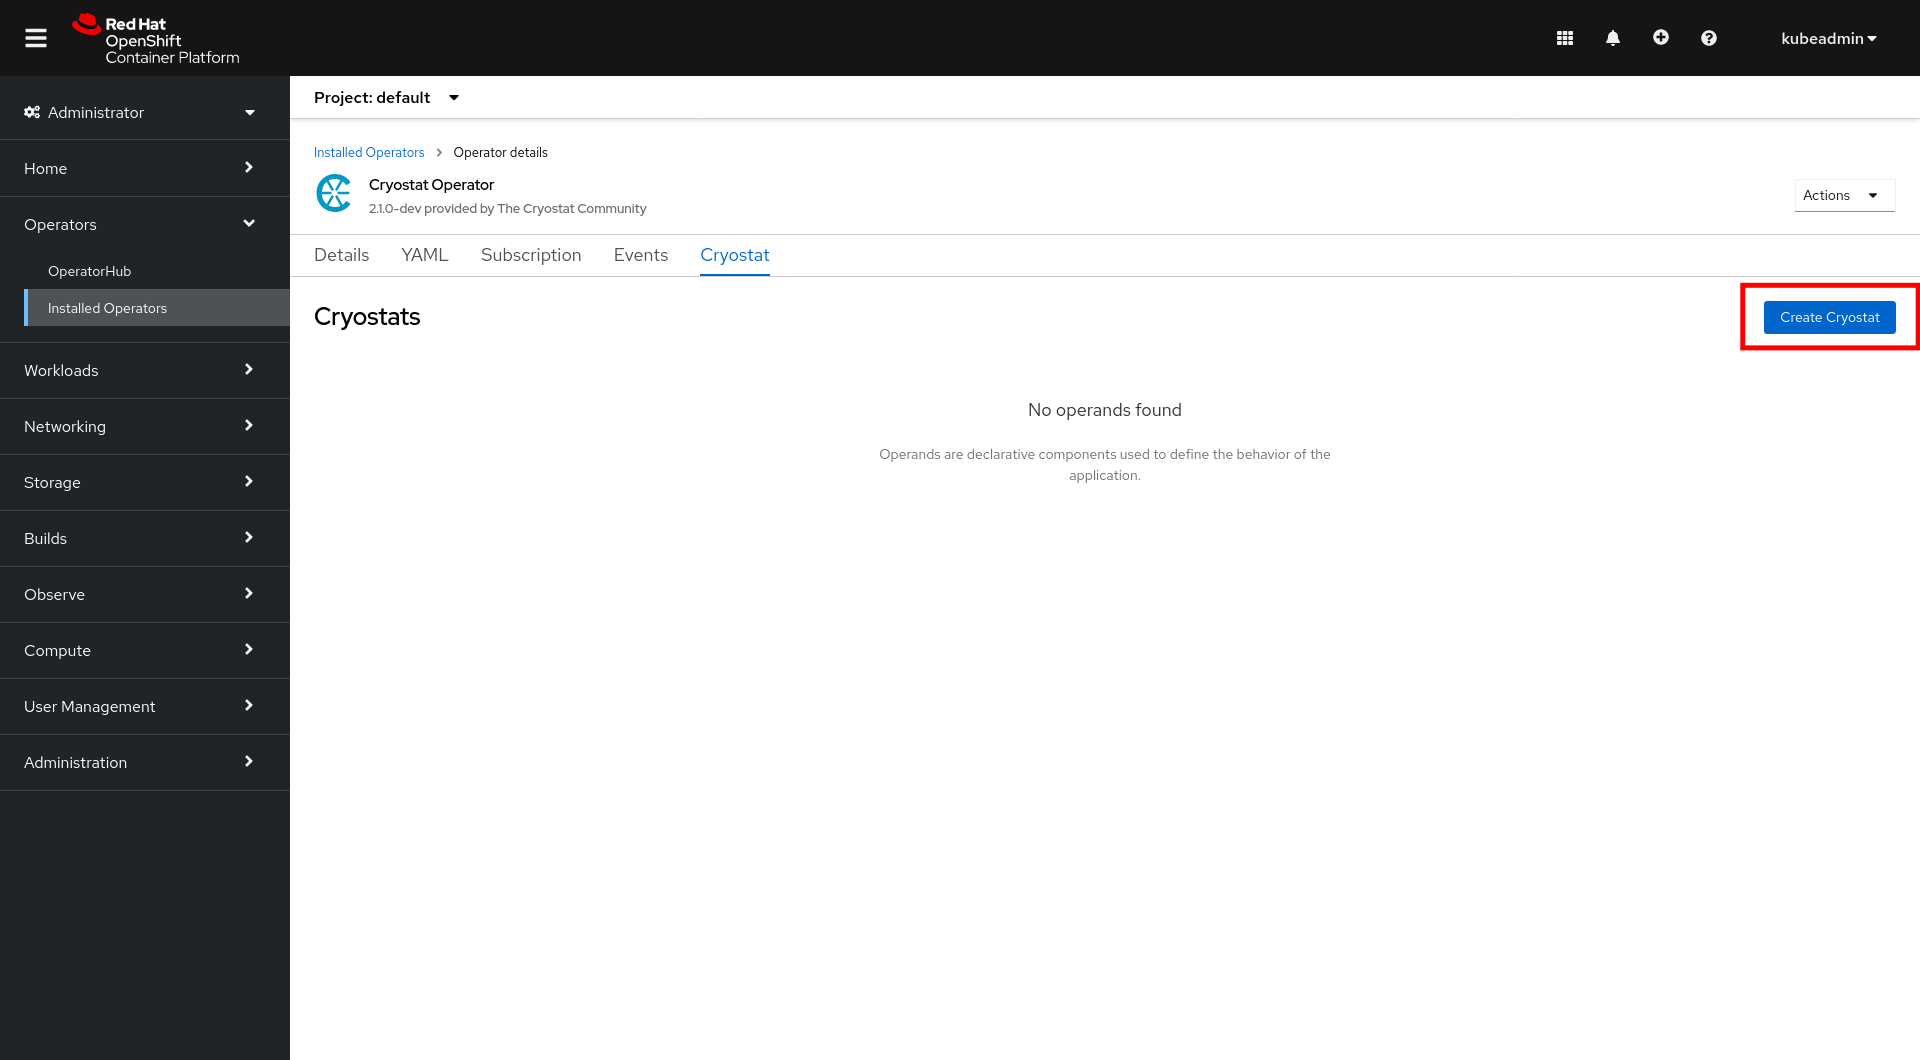
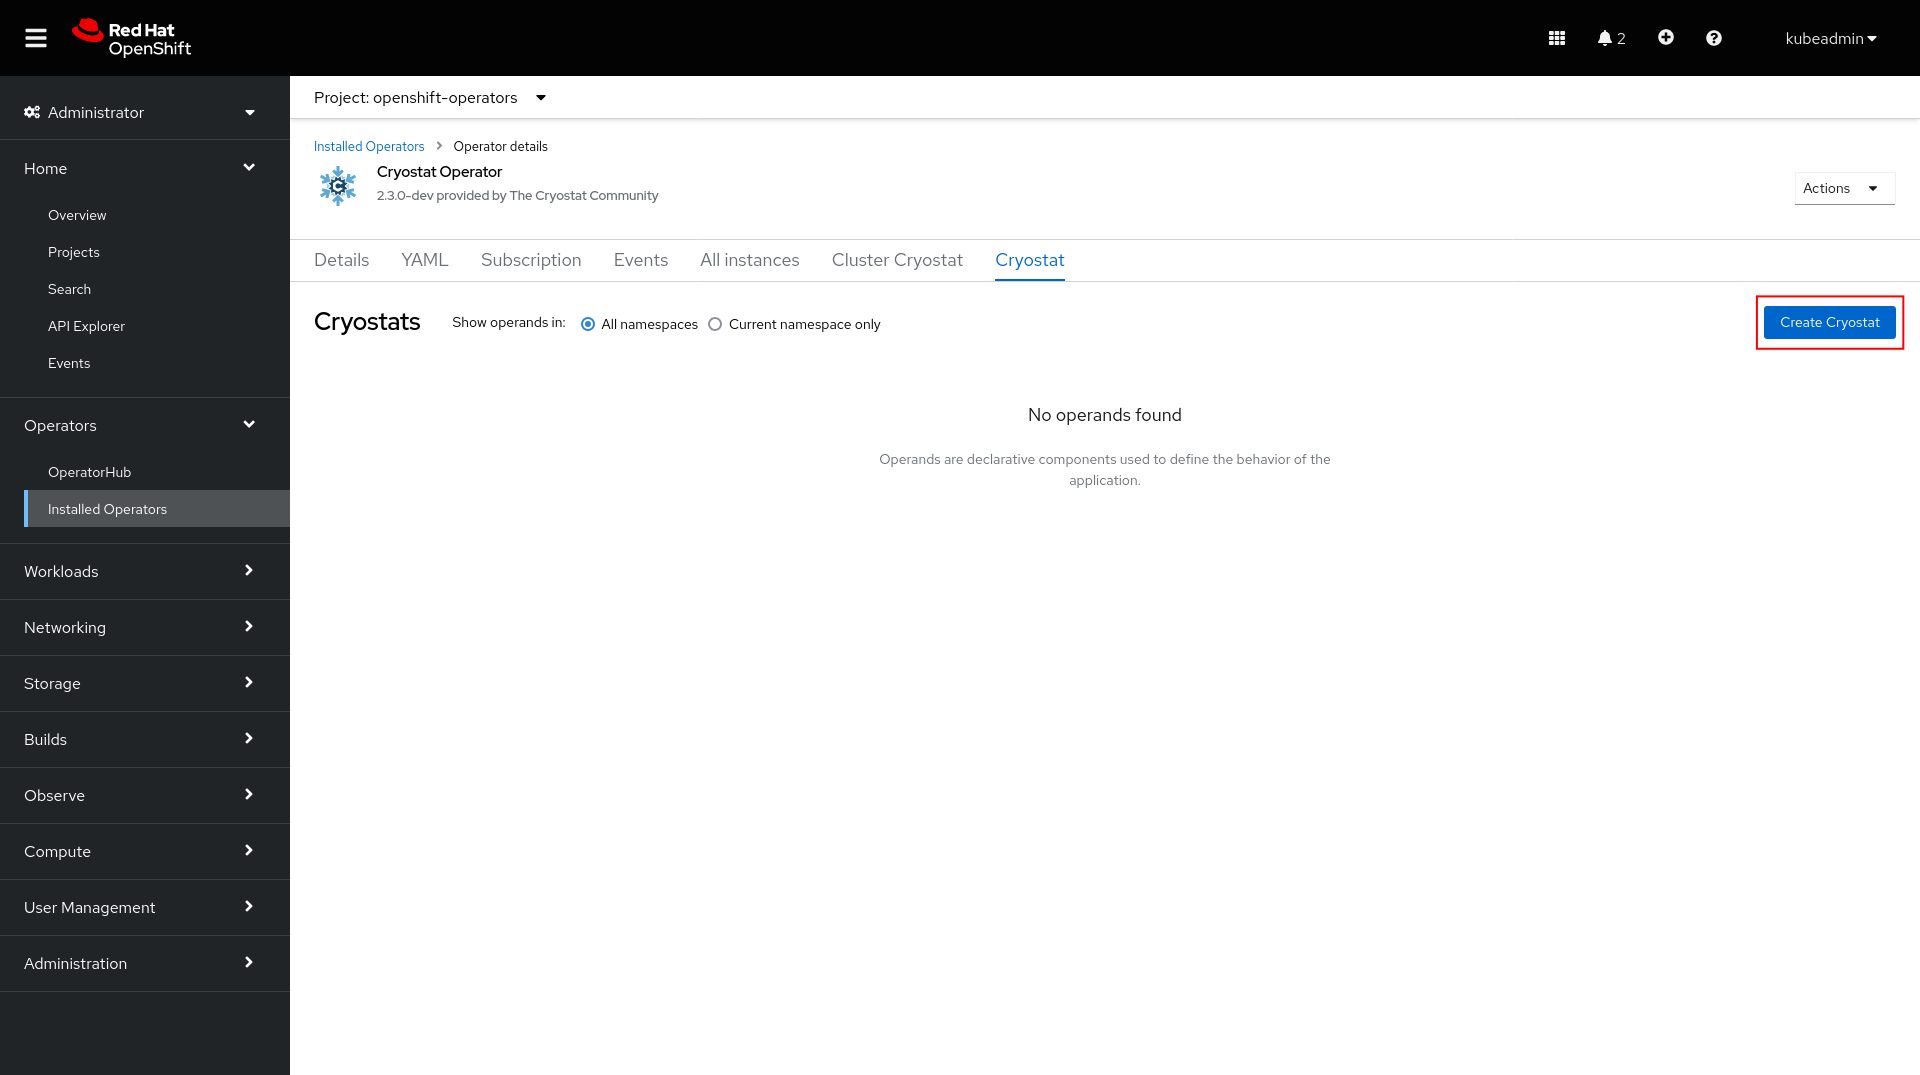
chore(docs): update (un)installation info, images, and document ClusterCryostat (#117)
* docs(install): update installation information and images

* update operator-sdk version

* add table of contents

* update step reference and links

* add documentation about ClusterCryostat

* split text into list

* use usual default CR YAML for example

* specify example's installation mode

* distinguish OpenShift Console Topology View

* cleanup outdated info

* fixup! cleanup outdated info

* correct screenshot

* explain why CRs are namespace-specific

* commas

* remove outdated alternate operator installation methods

* remove unused uninstallation steps

* inline doc

* point GitHub docs links to release branches, not latest development

* add detail

* comma

* clarify one instance of Kubernetes-specific requirement

* update olm instructions

* syntax highlighting hints

diff --git a/get-started/index.md b/get-started/index.md
@@ -18,9 +18,9 @@ Follow the steps below to install the Cryostat Operator via [OperatorHub](https:
 The Cryostat Operator requires [cert-manager](https://cert-manager.io/) to run.
 If not already installed in your cluster, please 
 [install](https://cert-manager.io/docs/installation/) it using your preferred method.
-Once installed, proceed with the operator installation steps below.
+Once installed, proceed with the Operator installation steps below.
 
-**Warning**: Although it is possible to [disable cert-manager integration](https://github.com/cryostatio/cryostat-operator/blob/v2/docs/config.md#disabling-cert-manager-integration), it is NOT recommended to
+**Warning**: Although it is possible to [disable cert-manager integration](https://github.com/cryostatio/cryostat-operator/blob/{{site.data.versions.cryostat.release-branch}}/docs/config.md#disabling-cert-manager-integration), it is NOT recommended to
 do so unless cert-manager is unavailable AND one of the following applies to you:
 - You have another solution for encrypting traffic
 - You trust everything running in the same cluster where the Cryostat Operator is deployed
@@ -28,52 +28,81 @@ do so unless cert-manager is unavailable AND one of the following applies to you
 ### [Install via OperatorHub](#install-via-operatorhub)
 See below for a summary of the installation steps from the Cryostat Operator page on [OperatorHub](https://operatorhub.io/cryostat-operator). For more details, visit [Installing the Cryostat Operator from OperatorHub](https://developers.redhat.com/articles/2022/01/20/install-cryostat-operator-kubernetes-operatorhubio#). 
 
-**If Operator Lifecycle Manager (OLM) and OperatorHub are already installed and available on your cluster, skip to Step 3:**
-
 1. Install the Operator Lifecycle Manager:
-```
-$ curl -sL https://github.com/operator-framework/operator-lifecycle-manager/releases/download/v0.21.1/install.sh | bash -s v0.21.1
-```
-2. Verify the installation was successful by confirming all pods are `READY`:
-```
+    Check if OLM is already installed:
+    ```bash
+    $ operator-sdk olm status
+    $ # or without the operator-sdk binary,
+    $ POD="$(kubectl get -l app=olm-operator -n olm pod -o 'jsonpath={.items[0].metadata.name}')"
+    $ kubectl exec -n olm "pod/${POD}" -- olm --version
+    ```
+
+    **If Operator Lifecycle Manager (OLM) and OperatorHub are already installed and available on your cluster, skip to Step 3:**
+
+    Install Operator Lifecycle Manager:
+
+    ```bash
+    $ operator-sdk olm install
+    $ # or without the operator-sdk binary,
+    $ curl -sL https://github.com/operator-framework/operator-lifecycle-manager/releases/download/v{{site.data.versions.operator-lifecycle-manager.version}}/install.sh | bash -s v{{site.data.versions.operator-lifecycle-manager.version}}
+    ```
+
+2. Verify the installation was successful by confirming all pods are `Running`:
+```bash
 $ kubectl get pods -n olm
+NAME                                READY   STATUS    RESTARTS   AGE
+catalog-operator-77b8589cd8-8bntf   1/1     Running   0          3m9s
+olm-operator-5ccf676d8b-7rgss       1/1     Running   0          3m9s
+operatorhubio-catalog-pb896         1/1     Running   0          3m3s
+packageserver-8cccc99dd-dv8rp       1/1     Running   0          3m3s
+packageserver-8cccc99dd-g7lkh       1/1     Running   0          3m3s
 ```
+
 3. Install Cryostat from OperatorHub:
 {% include howto_step.html
   details-attributes="open"
   summary="Cryostat on OperatorHub"
   image-name="cryostat-operatorhub-search.png"
 %}
-Use the search bar to find the Cryostat (provided by Red Hat) catalog item.
+Use the search bar to find the **Red Hat build of Cryostat** catalog item.
 {% include howto_step.html
   summary="Select the Cryostat Operator and click the Install button"
   image-name="cryostat-operatorhub-install.png"
 %}
-Choose the namespace for Cryostat to be deployed into. This should be the same namespace that contains your JVM applications which you intend to monitor or profile using Cryostat.
+Choose your Operator installation mode:
+1. In **All Namespaces** installation mode, the Cryostat Operator instance will watch for `Cryostat` or
+`ClusterCryostat` Custom Resources (`CR`s) created in any Namespace and create corresponding Cryostat instances.
+2. In the **A specific namespace** installation mode, you must also select an installation Namespace, and the Cryostat
+Operator instance will only watch for `Cryostat` or `ClusterCryostat` instances created in that same Namespace.
 {% include howto_step.html
   summary="Install the Operator"
   image-name="cryostat-operatorhub-install-in-progress.png"
 %}
-Click "Install" and wait for the installation to complete.
+Click "Install" and wait for the installation to complete. In this example we will proceed with **All Namespaces**.
+
+Continue to [Setup](#setup).
+
+## [Setup](#setup)
+
+**Note:** An alternative setup using the multi-namespace `ClusterCryostat` `CR` is described in
+[Alternate Setup](#alternate-setup). For simplicity we will continue with the single-namespace `Cryostat` `CR`.
+
+### [Deploying Cryostat](#deploying-cryostat)
+
 {% include howto_step.html
   summary="Create a Cryostat instance"
   image-name="cryostat-operatorhub-install-complete.png"
 %}
-Once the installation is complete, click "Create Cryostat" to create a Cryostat Custom Resource instance. This provides configuration information for the Operator to know
-the specifics of how to deploy your Cryostat instance. Continue to [Setup](#setup).
+Once the installation is complete, click **Create Cryostat** to create a `Cryostat` `CR` instance in an OpenShift
+Project (Kubernetes `Namespace`) of your choice. This provides configuration information for the Operator to know the
+specifics of how to deploy your Cryostat instance. For full details on how to configure the Cryostat deployment, see
+[Configuring Cryostat](https://github.com/cryostatio/cryostat-operator/blob/{{site.data.versions.cryostat.release-branch}}/docs/config.md).
 
-**Note**: Alternative methods for installing the operator are described in [Alternate Installation Options](/alternate-installation-options) (not recommended).
-## [Setup](#setup)
+If running Cryostat on Kubernetes and not OpenShift, you will also need to add Ingress configurations to your Cryostat
+custom resource (`CR`).
+See the [Network Options](https://github.com/cryostatio/cryostat-operator/blob/{{site.data.versions.cryostat.release-branch}}/docs/config.md#network-options) section of Configuring Cryostat for examples.
 
-### [Deploying Cryostat](#deploying-cryostat)
-Create a `Cryostat` object to deploy and set up Cryostat in the `cryostat-operator-system` namespace. For
-full details on how to configure the Cryostat deployment, see
-[Configuring Cryostat](https://github.com/cryostatio/cryostat-operator/blob/v{{ site.data.versions.cryostat.version }}/docs/config.md). 
-
-If running Cryostat on Kubernetes, you will also need to add Ingress configurations to your Cryostat resource.
-See the [Network Options](https://github.com/cryostatio/cryostat-operator/blob/v{{ site.data.versions.cryostat.version }}/docs/config.md#network-options) section of Configuring Cryostat for examples.
-
-You can create the resource graphically in the OperatorHub UI after following [Install via OperatorHub](#install-via-operatorhub):
+You can create the `CR` graphically in the OperatorHub UI after following [Install via OperatorHub](#install-via-operatorhub):
 
 {% include howto_step.html
   details-attributes="open"
@@ -93,7 +122,7 @@ You can create the resource graphically in the OperatorHub UI after following [I
   image-name="cryostat-resources-after.png"
 %}
 
-You can also create the resource manually using a YAML definition like the following:
+You can also create the `CR` manually using a YAML definition like the following:
 
 ```yaml
 apiVersion: operator.cryostat.io/v1beta1
@@ -115,14 +144,16 @@ spec:
 ```
 
 Then apply the resource:
-```
+```bash
+$ oc apply -f cryostat.yaml
+$ # or alternatively
 $ kubectl apply -f cryostat.yaml
 ```
 
 ### [Open the Cryostat Web UI](#open-the-cryostat-web-ui)
 Let's visit the Cryostat web dashboard UI.
 
-We can get there from the Cryostat resource's Status field:
+We can get there from the `Cryostat` `CR`'s status fields:
 
 {% include howto_step.html
   details-attributes="open"
@@ -130,7 +161,7 @@ We can get there from the Cryostat resource's Status field:
   image-name="cryostat-resource-status.png"
 %}
 
-Or, we can open the application link from the Topology view:
+Or, we can open the application link from the OpenShift Console Topology view:
 
 {% include howto_step.html
   details-attributes="open"
@@ -174,8 +205,8 @@ For direct access to the Cryostat HTTP API you may follow the same pattern.
 Using a client such as `curl`, an OpenShift auth token can be passed with
 requests using the `Authorization: Bearer` header. The token must be base64
 encoded. For example,
-```
-curl -v -H "Authorization: Bearer $(oc whoami -t | base64)" https://cryostat.example.com:8181/api/v1/targets
+```bash
+$ curl -v -H "Authorization: Bearer $(oc whoami -t | base64)" https://cryostat.example.com:8181/api/v1/targets
 ```
 
 ##### [Other Platforms Authentication](#other-platforms-authentication)
@@ -197,7 +228,7 @@ The credentials stored in the Java properties file are the user name and a
 SHA-256 sum hex of the user's password. The property file contents should look
 like:
 
-```
+```properties
 user1=abc123
 user2=def987
 ```
@@ -378,7 +409,7 @@ spec:
 ...
 ```
 
-More details about the configuration options for the Cryostat Agent [are available here](https://github.com/cryostatio/cryostat-agent/blob/main/README.md#configuration).
+More details about the configuration options for the Cryostat Agent [are available here](https://github.com/cryostatio/cryostat-agent/blob/{{site.data.versions.cryostat.release-branch}}/README.md#configuration).
 
 ##### [Using JMX](#using-jmx)
 Cryostat is also able to use Java Management Extensions (JMX) to communicate with target applications. This is a standard JDK feature that can be enabled by passing JVM
@@ -575,28 +606,61 @@ spec:
 ...
 ```
 
+### [Alternate Setup](#alternate-setup)
+
+#### [Using ClusterCryostats](#using-clustercryostats)
+In [Deploying Cryostat](#deploying-cryostat), you created a single-namespace `Cryostat` Custom Resource
+(`CR`) instance.
+
+Single-namespace `Cryostat` `CR`s instruct the Operator to deploy restricted Cryostat instances which are only able
+to see target applications deployed in the same namespace as the Cryostat instance, which is the same Namespace that
+the `CR` is created within.
+
+If you chose to install the Operator in **All Namespaces** mode as assumed in this guide, you may also be interested in
+creating `CluterCryostat` `CR`s. In this configuration, the Operator is able to see `Cryostat` and `ClusterCryostat`
+`CR`s in any project (`Namespace`) and create Cryostat deployments corresponding to either `CR` kind in each of their
+respective `Namespaces`. Both of these `CRs` are `Namespace`-specific, and the `Namespace` is used to determine which
+OpenShift users are able to access the Cryostat instance. For more information, please see the following documents:
+- [Multi-namespace](https://github.com/cryostatio/cryostat-operator/blob/{{site.data.versions.cryostat.release-branch}}/docs/multi-namespace.md).
+- [Authorization Properties](https://github.com/cryostatio/cryostat-operator/blob/{{site.data.versions.cryostat.release-branch}}/docs/config.md#authorization-properties)
+
+`ClusterCryostat` `CR`s instruct the Operator to deploy cross-namespace Cryostat instances. A `ClusterCryostat` has
+an `installNamespace`, which is the namespace where the Cryostat `Deployment` will reside, and a list of
+`targetNamespaces`, which are all of the namespaces that the Cryostat server will watch for target applications.
+The `targetNamespaces` list does not necessarily need to contain the `installNamespace`, if you do not want Cryostat
+to see itself in the target applications that it watches.
+
+```yaml
+apiVersion: operator.cryostat.io/v1beta1
+kind: ClusterCryostat
+metadata:
+  name: clustercryostat-sample
+spec:
+  enableCertManager: true
+  installNamespace: cryostat-testing
+  minimal: false
+  reportOptions:
+    resources: {}
+  storageOptions:
+    pvc:
+      spec:
+        resources: {}
+  targetNamespaces:
+  - cryostat-testing
+  - my-apps-a
+  - my-apps-b
+```
+
 ## [Next Steps](#next-steps)
 Now that you have installed and deployed Cryostat and know how to access its
 web client, continue on to [Guides]({% link guides/index.md %}) for
 guides through various common actions and workflows.
 
 ## [Uninstalling Cryostat Operator](#uninstalling-cryostat-operator)
-In order to ensure that objects created by the operator and recordings created
-by Cryostat are properly removed, the Cryostat Operator must remain installed
-when attempting to delete the Cryostat custom resource, or any Recording
-custom resources.
-
-To completely remove Cryostat and all objects and recordings created by it:
-1. Delete any Recording custom resources.
-    - If Cryostat is no longer deployed, you must redeploy it by creating a
-      Cryostat custom resource.
-    - If the Cryostat Operator has already been uninstalled, please reinstall it
-      before deleting any Recording custom resources.
-2. Delete the Cryostat custom resource.
-    - If the Cryostat Operator has already been uninstalled, please reinstall it
-      before deleting the Cryostat custom resource.
-3. Uninstall the Cryostat Operator. 
-    - **Warning**: This command also removes the `my-cryostat-operator` namespace and all of its contents, including any applications deployed in the namespace.
-    ```
-    $ kubectl delete -f https://operatorhub.io/install/cryostat-operator.yaml
-    ```
+Reference [Operator Lifecycle Manager's](https://olm.operatorframework.io/docs/tasks/uninstall-operator/#combine-steps-2-and-3)
+guide on uninstalling Operators. Please be sure to delete all `Cryostat` and `ClusterCryostat` Custom Resources before
+uninstalling the Cryostat Operator.
+- If your Cryostat Operator was installed in **All Namespaces** mode, then its `ClusterServiceVersion` and
+`Subscription` can be found in the `Namespace` `openshift-operators`.
+- If your Cryostat Operator was installed in **A specific Namespace**, then the `ClusterServiceVersion` and
+`Subscription` will be in that same `Namespace.`
